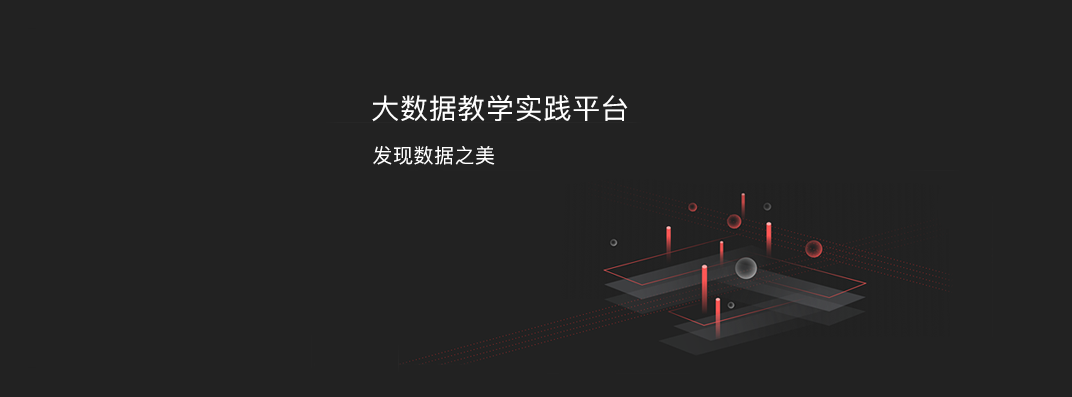
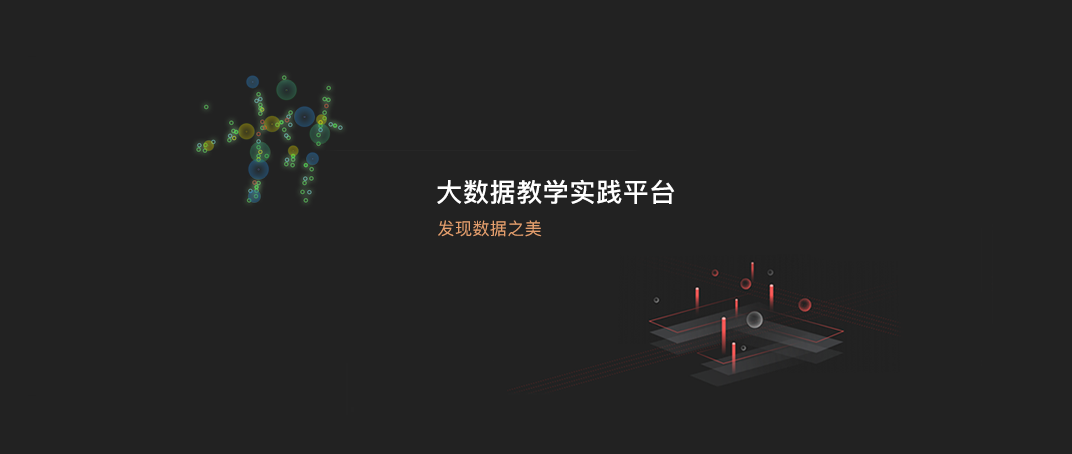
完善首页轮播

diff --git a/index.html b/index.html
@@ -78,7 +78,7 @@
               </div>
             </div>
             <div class="item">
-              <div id="idx_pic3" class="div-bg" style="background-image:url('img/index/cover3.jpeg')">
+              <div id="idx_pic3" class="div-bg" style="background-image:url('img/index/cover3.png')">
               </div>
             </div>
           </div>
